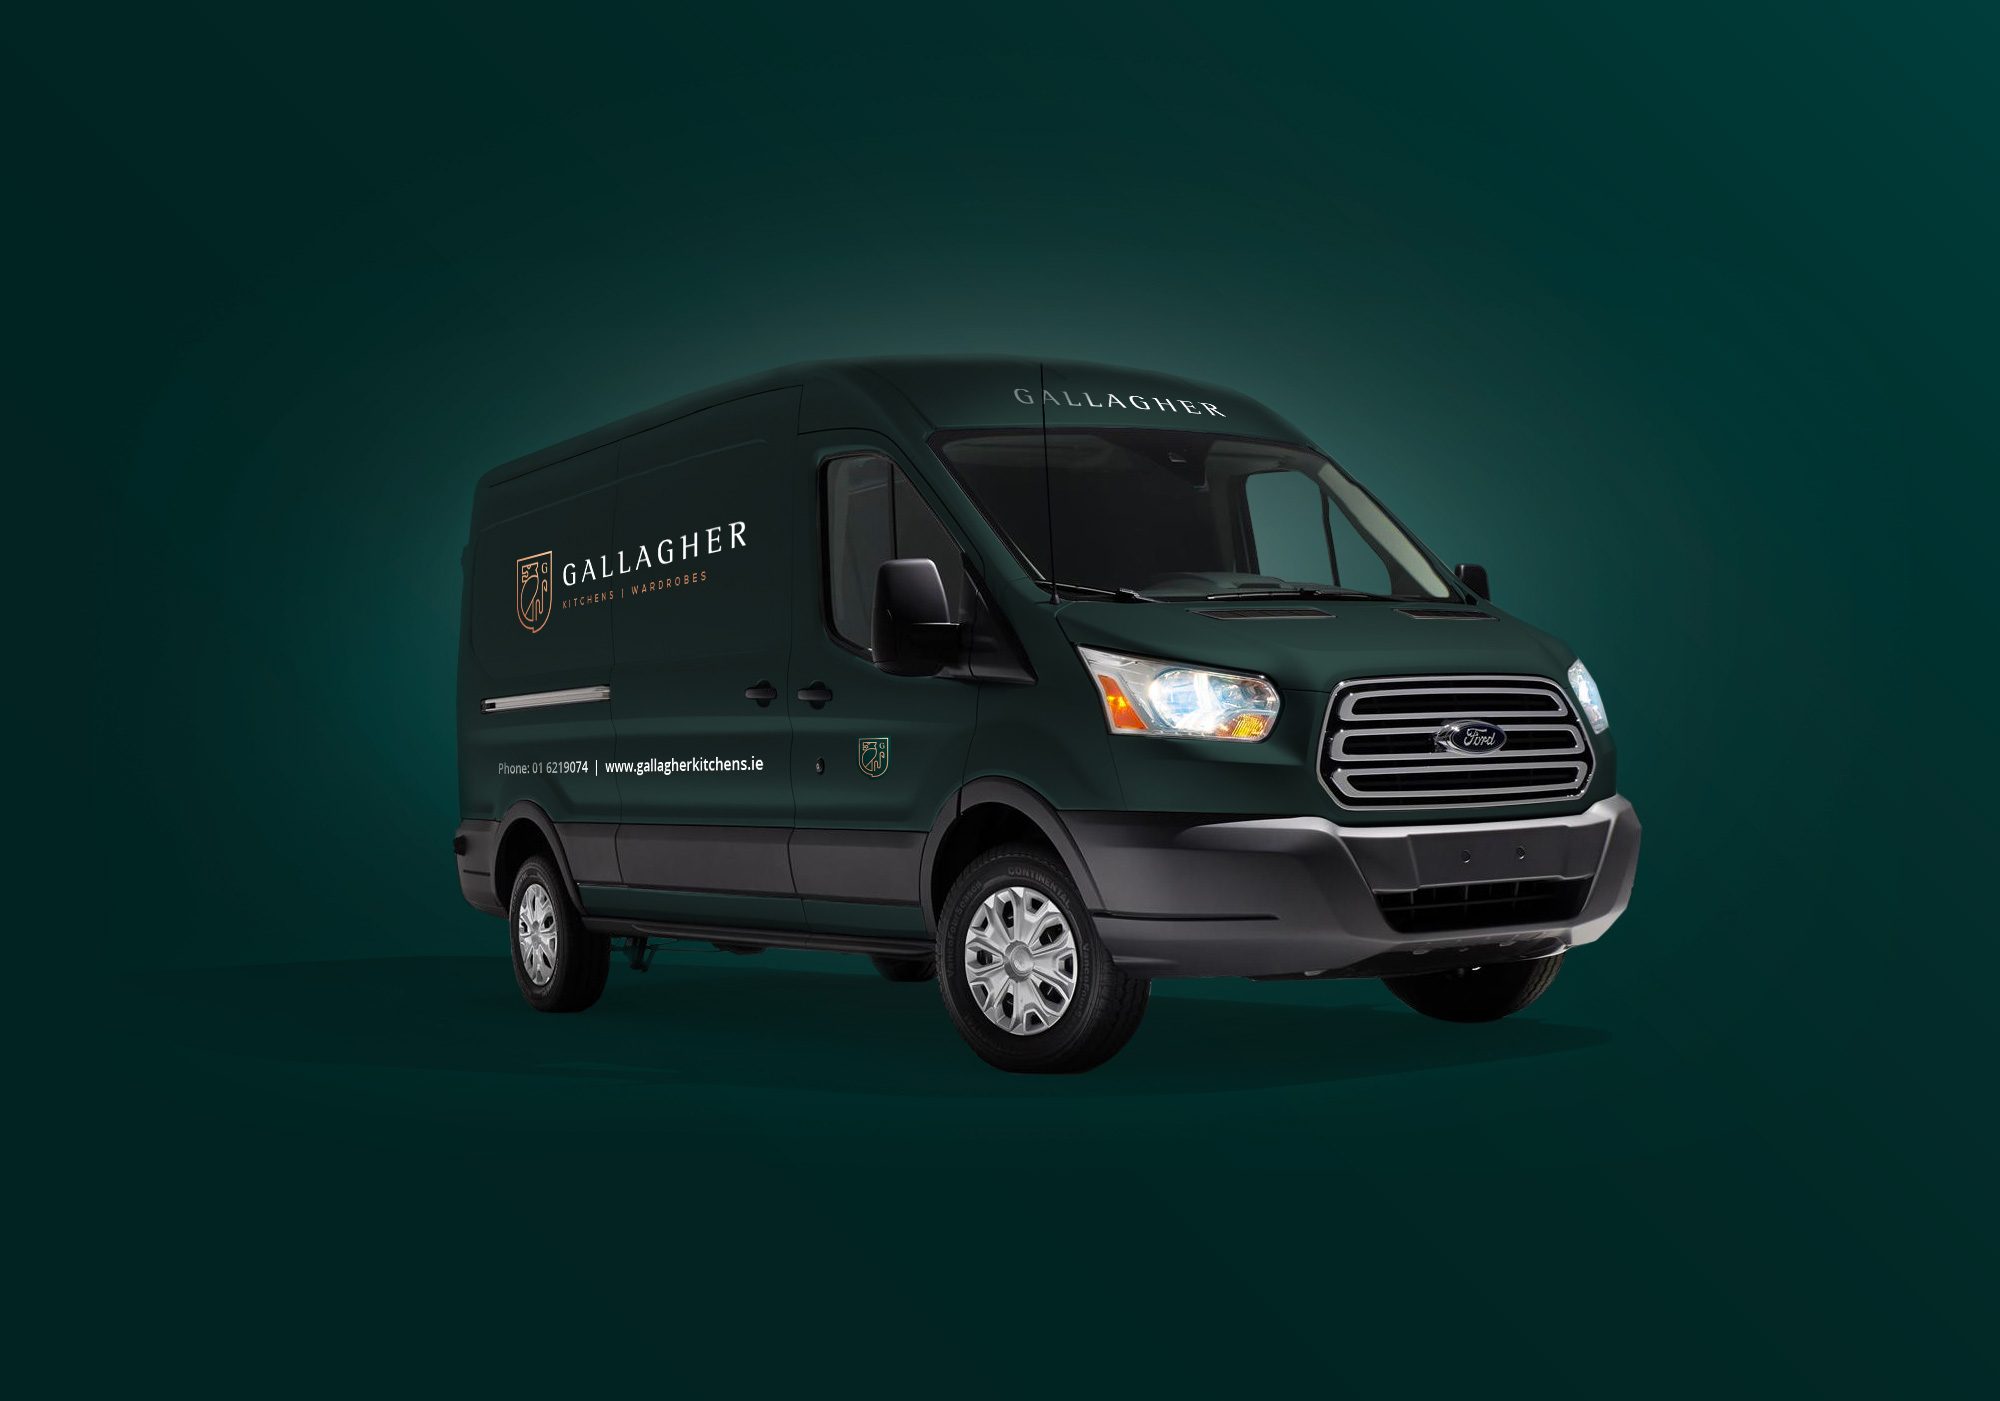
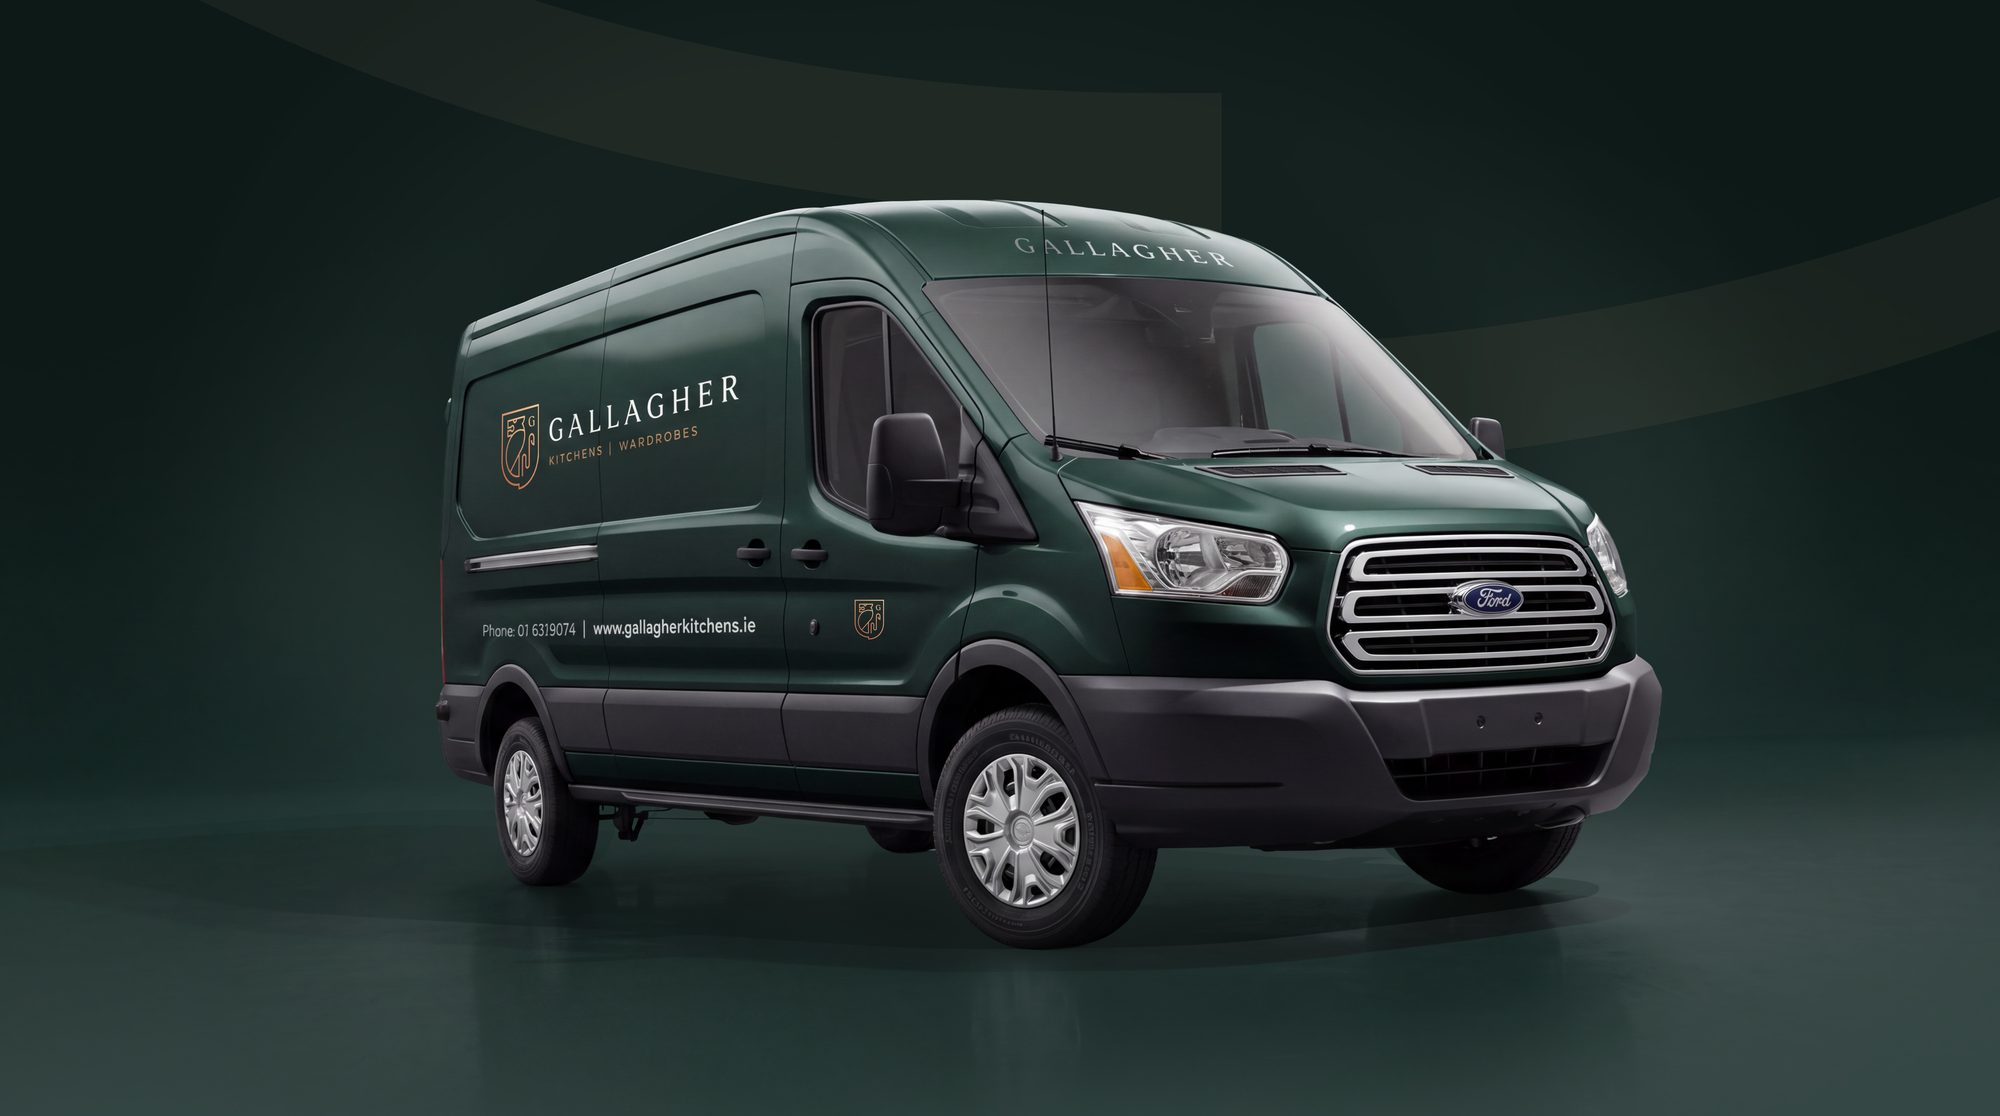
Swap the Gallagher van render and correct the second brand colour
Van replaced with the studio render: the crest and wordmark read clearly on the
panel, and the contact strip is legible. 1.8MB to 124KB, smaller than the
212KB shot it replaces.

Second swatch moves from the navy #072334 to #003D3B. Both brand colours are
greens now, so "Company Ink" was the wrong name for it and the pair reads as
Company Green 01 and 02, matching how the coppers are numbered.

diff --git a/src/data/projects.js b/src/data/projects.js
@@ -626,8 +626,8 @@ export const projects = [
     ],
 
     palette: [
-      { name: "Company Green", hex: "#022321" },
-      { name: "Company Ink", hex: "#072334" },
+      { name: "Company Green 01", hex: "#022321" },
+      { name: "Company Green 02", hex: "#003D3B" },
       { name: "Copper 01", hex: "#FDCB9D" },
       { name: "Copper 02", hex: "#FBBC8F" },
       { name: "Copper 03", hex: "#D88561" },
